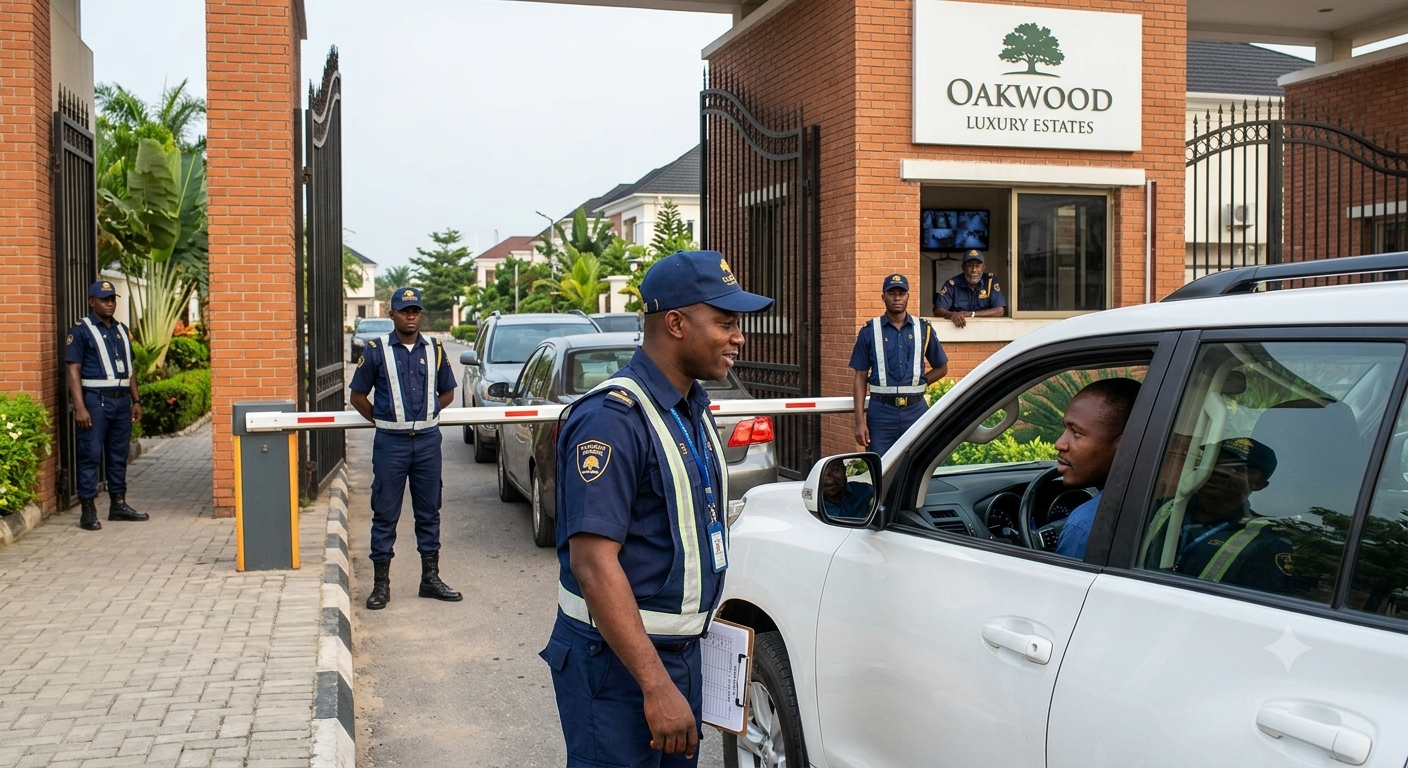
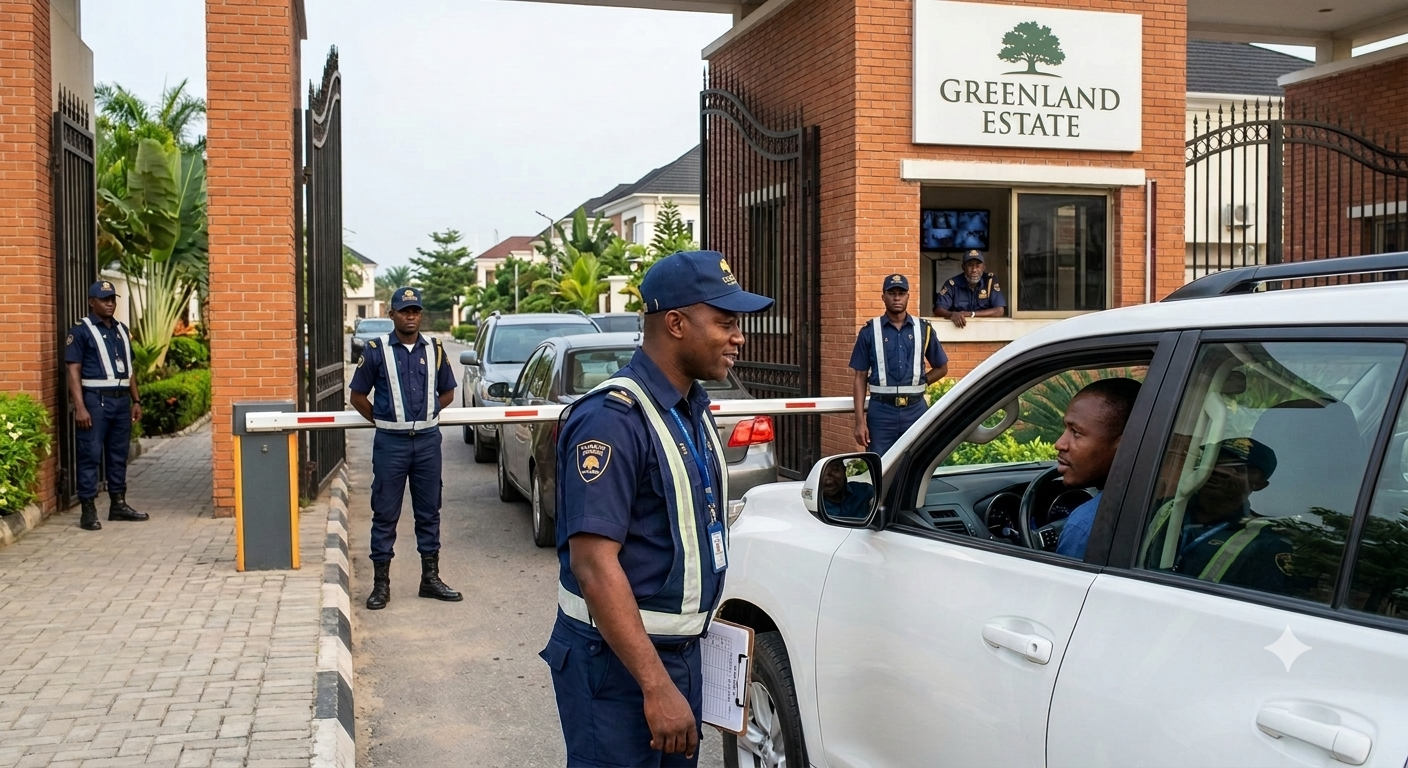
update

Changed region(s): [[0.6562, 0.0312, 0.8125, 0.1875], [0.4062, 0.5625, 0.4375, 0.625]]

diff --git a/src/components/Hero.js b/src/components/Hero.js
@@ -72,8 +72,8 @@ export function Hero() {
     <section className="hero" id="top" ref={root}>
       <div className="hero__media">
         <Image
-          src="/images/properties/lekki-5-bedroom/lekki-1.jpg"
-          alt="Poolside view of a luxury residence managed by EFM"
+          src="/images/properties/Lekki-5-bedroom/lekki-1.jpg"
+          alt="a luxury residence in Lekki managed by EFM"
           fill
           priority
           sizes="100vw"
